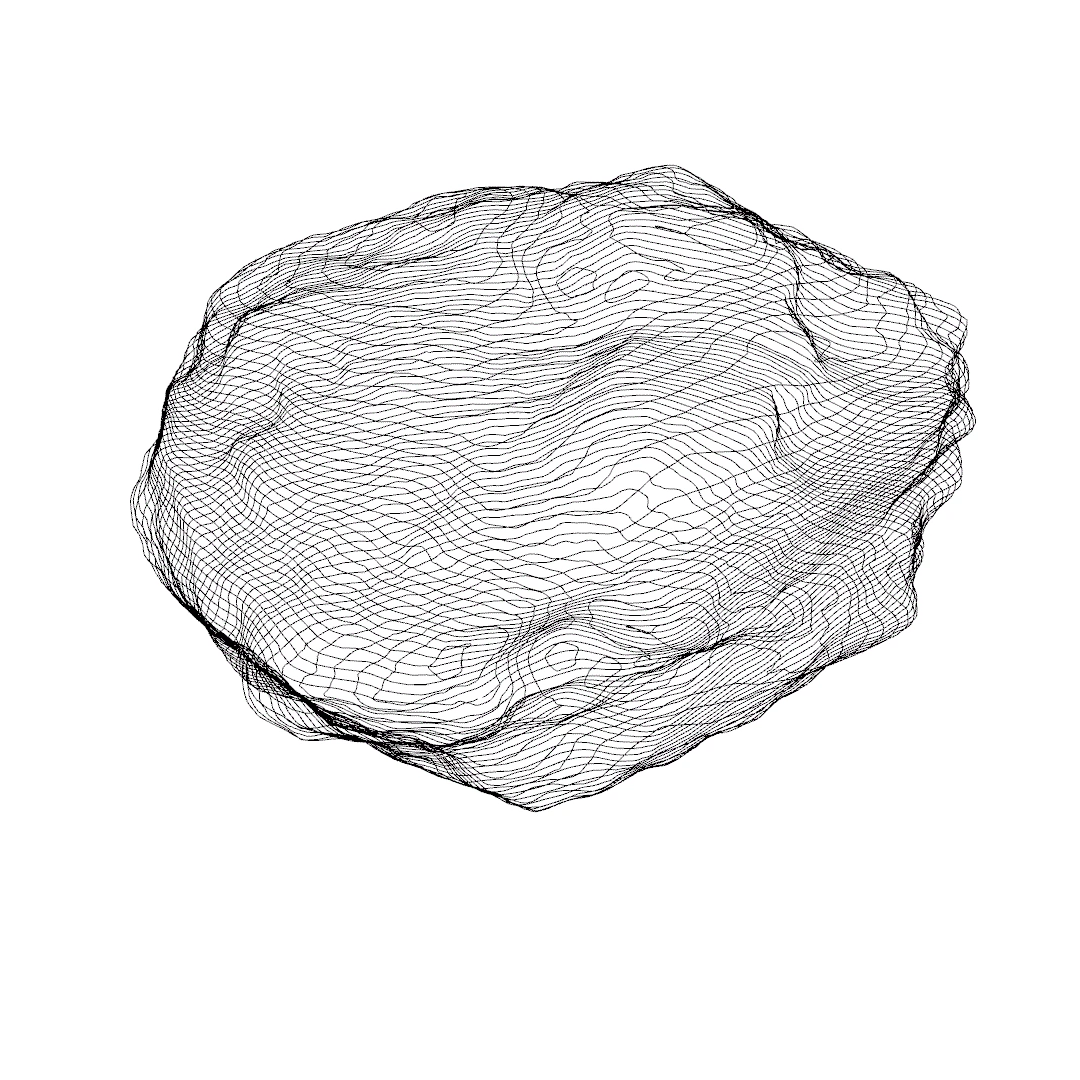
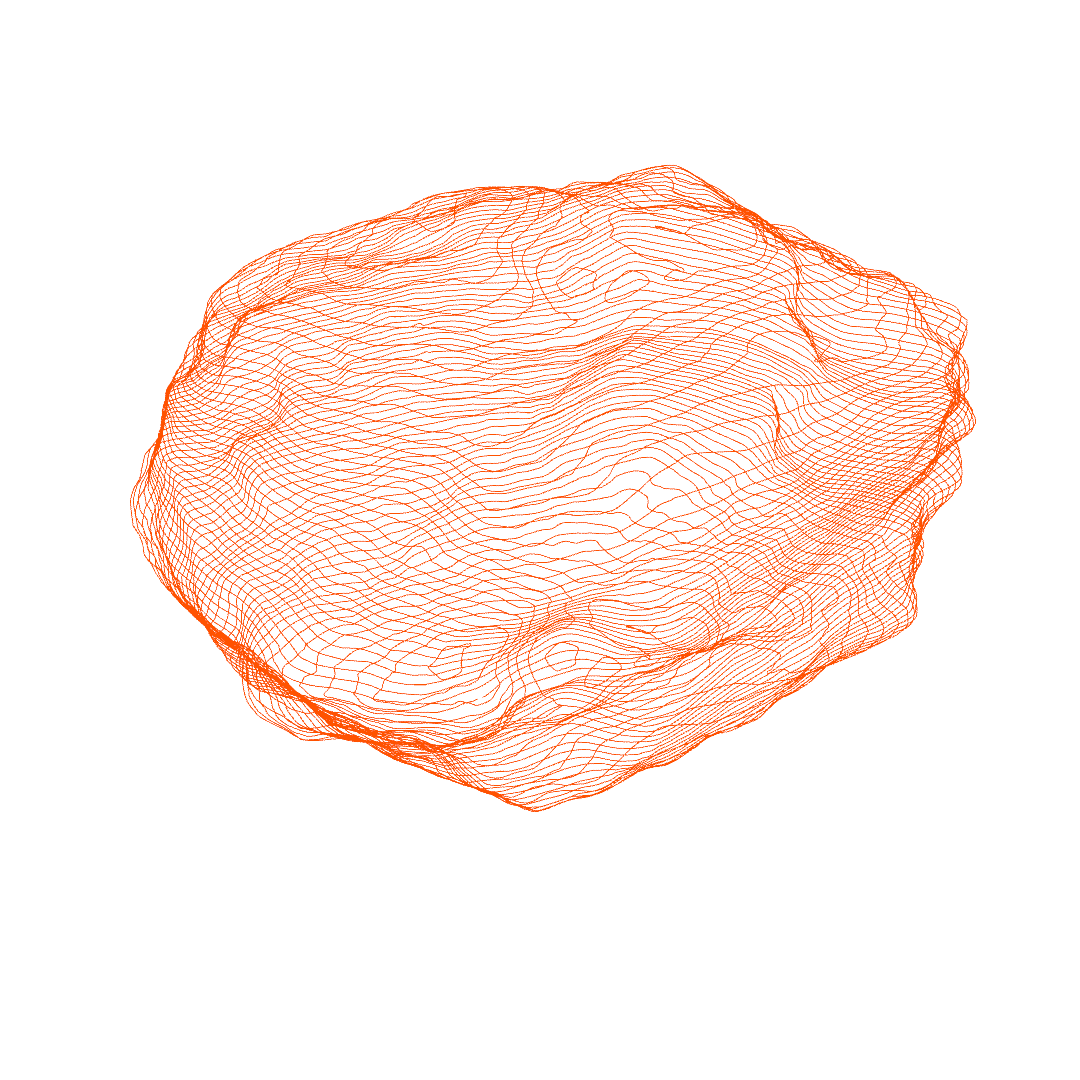
- Changed cailloux png / gif to new one with orange color - Changed header link color to orange - Added separators between header links

Changed region(s): [[0.1222, 0.1528, 0.9167, 0.7639]]

diff --git a/src/components/templates/home/home.tsx b/src/components/templates/home/home.tsx
@@ -9,7 +9,7 @@ const Home = (props: HomeComponent) => {
 
     const { title, subtitles, images } = props
     const [hoverImage, setHoverImage] = useState<ImageComponent | null>(null);
-
+ 
     return (
         <div className='Home'>
             <div className="leftSide animate__animated animate__fadeInLeft">
@@ -24,44 +24,14 @@ const Home = (props: HomeComponent) => {
                     </div>
                 </div>
                 <div className="right">
-                    <span>Eratusam enitioritius seque ne cuptatium quidelis 
-                        num int ullatum res idenien imagnia ne sapeditaque 
-                        offic tem qui volectem ipsaped itatio omnimpore 
-                        ventiat emporepra comnitatur, que numquias quaessi mporess equatur? Feris molestor sapedi voluptium 
-                        faccum, qui dolorum simincta doluptas dendae. Nequia dit erume nobis et arumquas magniendi tem 
-                        rem et fugiti ut quia voleste lam es ent la que nam eos 
-                        quiandi dolo exero blautem aspiciet pro doluptatem 
-                        etur sed magnia dest mollam iusdae nis sumqui officimaiore sunt volum exped ma soluptas verchil exeris 
-                        quos explatist andae quos aut eat accab invelig enihit 
-                        verio. Eceperi dolo conseque nullaci dolorit et et et 
-                        voluptas veribusame cum sin nihictur, ut laccae vidis 
-                        pro ducipis vid moluptium, untibusande dolupta eribus.
-                        Me volo ma dunt veremodit eiusame eveles et et volestrum escientis nem archil modio quis quost, is eturiscia ipsam andi nihicipsum quam, con pa solorit quam 
-                        vero dolor sequo quam et que nest officabo. Ommolestiur ab id quameni hiliqui assequam fuga. Et omnis 
-                        sunt vollorehenem samusci llorit, omnime odiosanit, 
-                        optatur?
-                        Optus ditium cus nonsed mossitiorem. Nequi dest, si-
-                    </span>
+                    <span></span>
                 </div>
             </div>
 
             <div className='rightSide animate__animated animate__fadeInRight'>
                 {
                     images && images.length > 0 && images.map((image: ImageComponent, id: number) => (
-                        <div key={`${id}-${image.id}`} className="imageContainer"
-                            onClick={() => console.log(image.href)}
-                            onMouseEnter={() => setHoverImage(val => image)}
-                            onMouseLeave={() => setHoverImage(val => null)}>
-                            {
-                                hoverImage && hoverImage.id === image.id && (
-                                    <>
-                                        <div className="blackVeil"></div>
-                                        <span className="text animate__animated animate__fadeInUp animate__faster">{image.text}</span>
-                                    </>
-                                )
-                            }
-                            <Image src={image.src} />
-                        </div>
+                        <div key={`${id}-${image.id}`} className="imageContainer" onClick={() => console.log(image.href)}></div>
                     ))
                 }
             </div>

diff --git a/src/components/Header/header.tsx b/src/components/Header/header.tsx
@@ -20,10 +20,15 @@ const Header = (props: any) => {
                 onMouseOver={() => setIsShown(val => true)} />
             {
                 isShown && (
-                    <div className="links animate__animated animate__fadeInRight animate__faster">
+                    <div className="links">
                         {
                             links && links.length > 0 && links.map((item: any, id: number) => (
-                                <Link key={`${id}-${item.id}`} to={`/${item.id}`} onClick={() => setSelectedLink(item.id)}>{Capitalize(item.name)}</Link>
+                                <>
+                                    <Link key={`${id}-${item.id}`} to={`/${item.id}`} onClick={() => setSelectedLink(item.id)}>{Capitalize(item.name)}</Link>
+                                    {
+                                        id < links.length-1 ? '|' : ''
+                                    }
+                                </>
                             ))
                         }
                     </div>

diff --git a/src/components/Header/header.css b/src/components/Header/header.css
@@ -31,8 +31,14 @@
 
 .links {
     display: flex;
-    gap: 15px;
+    gap: 5px;
+    color: orangered;
 
     animation: "animate__fadeInRight";
     animation-duration: 2s;
+}
+
+.links a {
+    text-decoration: inherit;
+    color: orangered;
 }
